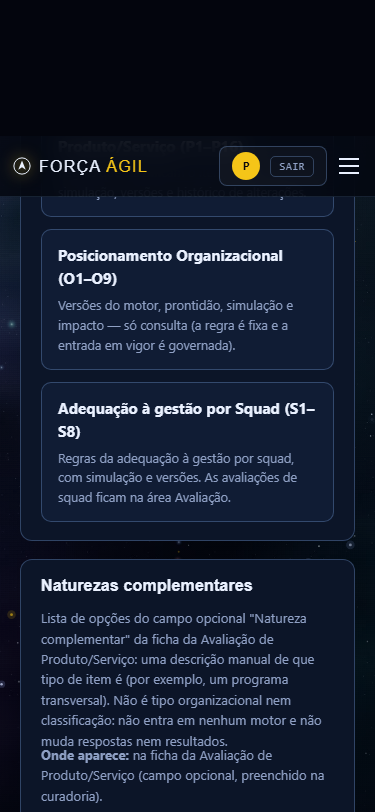
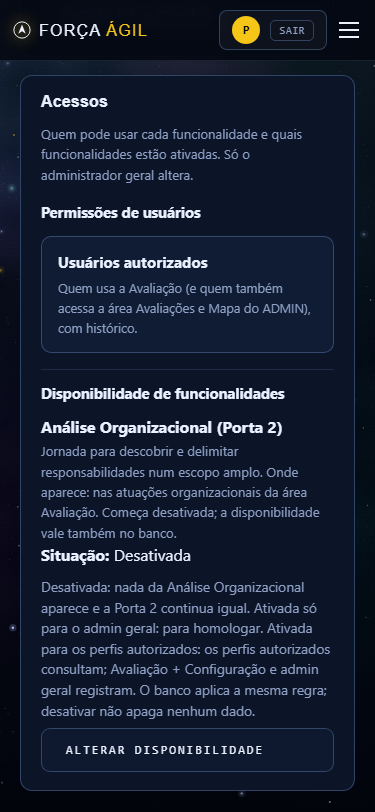
O5 (proposta didática): preserva o exemplo ilustrativo dos roteiros contábeis; captura de Acessos no celular
- ajudas-o1-o9-didatica, O5 quando NÃO: mantém a explicação geral (regras ou parametrizações)
  e traz o exemplo dos roteiros contábeis da proposta de homologação, marcado como ilustrativo:
  participar do desenvolvimento ou da operação não significa, por si só, responder pelo
  resultado próprio. Só ajuda — motor e interpretações intocados; nada é aplicado sozinho.
- teste-orientacao-o1-o9: confere o exemplo e a sobreposição das três propostas aplicadas em
  sequência (versões 1–4 idênticas; textos de homologação e da O9 preservados na versão 5).
- screenshots/acabamento/celular-03-admin-acessos.png refeita, enquadrando a seção Acessos.

diff --git a/.github/scripts/teste-orientacao-o1-o9.js b/.github/scripts/teste-orientacao-o1-o9.js
@@ -152,9 +152,20 @@ async function tela(browser, viewport, rotulo) {
   /* A2 na tela: a proposta didática, aplicada DEPOIS da anterior (cujos textos contam como anteriores conhecidos) */
   const cDid = await texto(page, '#avpCorrecao-' + DID);
   afirma(/Correção editorial disponível/.test(cDid) && /15 ajustes/.test(cDid) && !/divergente/.test(cDid), 'A2. cartão da proposta didática: 15 ajustes pendentes, nada divergente, com a anterior já aplicada', cDid.slice(0, 200));
+  const versoesAntesDid = JSON.stringify([1, 2, 3, 4].map((n) => q.versoes[n]));
   await aplicar(page, DID);
   db = await banco(page);
   q = db['questionarios-config'][QCOD];
+  /* sobreposição: aplicadas em sequência, cada proposta deixa os seus textos e nenhuma versão anterior muda */
+  {
+    const props = Q.listarCorrecoesEditoriais(QCOD), v5 = q.versoes[5].perguntas;
+    const em = (lista, aj) => lerCampo(lista.find((x) => x.codigoEstavel === aj.pergunta), aj.campo);
+    const pAj = props.find((x) => x.id === AJ), pRo = props.find((x) => x.id === RO9), pDid = props.find((x) => x.id === DID);
+    afirma(JSON.stringify([1, 2, 3, 4].map((n) => q.versoes[n])) === versoesAntesDid, 'Sobreposição: as versões 1 a 4 (histórico) continuam idênticas depois da versão 5');
+    afirma(pAj.ajustes.filter((x) => x.pergunta !== 'O5').every((x) => em(v5, x) === x.para), 'Sobreposição: na versão 5, as ajudas de O1, O7, O8 e O9 continuam as da homologação');
+    afirma(pRo.ajustes.every((x) => em(v5, x) === x.para), 'Sobreposição: na versão 5, a pergunta O9 continua a redação aprovada');
+    afirma(pDid.ajustes.every((x) => em(v5, x) === x.para) && pAj.ajustes.filter((x) => x.pergunta === 'O5').every((x) => em(q.versoes[3].perguntas, x) === x.para), 'Sobreposição: O5 da versão 5 = didática; a versão 3 guarda a O5 da homologação');
+  }
   afirma(q.versaoPublicada === 5 && JSON.stringify(diferencas(Q, q.versoes[4].perguntas, q.versoes[5].perguntas)) === JSON.stringify(['O2.textoAjuda.quandoNao', 'O2.textoAjuda.quandoSim', 'O2.textoAjuda.significado', 'O3.textoAjuda.quandoNao', 'O3.textoAjuda.quandoSim', 'O3.textoAjuda.significado', 'O4.textoAjuda.quandoNao', 'O4.textoAjuda.quandoSim', 'O5.ajudaExtra', 'O5.textoAjuda.quandoNao', 'O5.textoAjuda.quandoSim', 'O5.textoAjuda.significado', 'O6.textoAjuda.quandoNao', 'O6.textoAjuda.quandoSim', 'O6.textoAjuda.significado']), 'A2. aplicar a proposta didática cria a versão 5 só com as ajudas de O2–O6', diferencas(Q, q.versoes[4].perguntas, q.versoes[5].perguntas));
   afirma(q.versoes[5].perguntas.every((x) => { const a = q.versoes[4].perguntas.find((y) => y.codigoEstavel === x.codigoEstavel); return a.texto === x.texto && a.justSim === x.justSim && a.justNao === x.justNao; }), 'A2. nenhuma pergunta nem interpretação (SIM/NÃO) mudou');
 
@@ -163,7 +174,7 @@ async function tela(browser, viewport, rotulo) {
   await ateN3(page);
   const aj = async (qq) => texto(page, '.po-pergunta[data-q="' + qq + '"] .avp-ajuda-det');
   afirma(/Responder SIM não cria uma nova Linha/.test(await aj('O1')) && /Atenção — o que não determina a resposta/.test(await aj('O1')), 'C. O1: SIM não cria Linha; o que não determina');
-  afirma(/participa de um Produto\/Serviço com uma atividade própria/.test(await aj('O5')) && /Atender clientes internos não significa, por si só, possuir um Produto\/Serviço dedicado/.test(await aj('O5')) && /Chamar uma atividade de "serviço" também não basta/.test(await aj('O5')) && /disponibilizar uma capacidade é oferecer algo que outros usam/.test(await aj('O5')), 'C. O5: dedicado × compartilhado; cliente interno e "serviço" não bastam; entregar × disponibilizar capacidade');
+  afirma(/participa de um Produto\/Serviço com uma atividade própria/.test(await aj('O5')) && /Atender clientes internos não significa, por si só, possuir um Produto\/Serviço dedicado/.test(await aj('O5')) && /Chamar uma atividade de "serviço" também não basta/.test(await aj('O5')) && /disponibilizar uma capacidade é oferecer algo que outros usam/.test(await aj('O5')) && /Exemplo ilustrativo: definir roteiros contábeis/.test(await aj('O5')), 'C. O5: dedicado × compartilhado; cliente interno e "serviço" não bastam; entregar × disponibilizar capacidade');
   afirma(/resposta técnica especializada/.test(await aj('O2')) && /Quando SIM é defensável\?/.test(await aj('O2')) && /desenvolve, mantém e dissemina/.test(await aj('O3')) && /Quando NÃO é defensável\?/.test(await aj('O3')), 'C. O2 e O3: Ajuda completa no padrão (antes, só uma frase)');
   for (const qq of ['O1', 'O2', 'O3', 'O4', 'O5']) {
     const ex = await page.evaluate((x) => { const d = document.getElementById('poExemplos_' + x); return d ? { aberto: d.open, t: d.textContent } : null; }, qq);
@@ -205,6 +216,8 @@ async function tela(browser, viewport, rotulo) {
   afirma(did.ajustes.every((x) => ['O2', 'O3', 'O4', 'O5', 'O6'].includes(x.pergunta) && /^(textoAjuda\.(significado|quandoSim|quandoNao)|ajudaExtra)$/.test(x.campo)), 'A2. só textoAjuda.* e ajudaExtra de O2, O3, O4, O5 e O6');
   afirma(did.ajustes.every((x) => (x.de === null ? lerCampo(fab(x.pergunta), x.campo) == null : lerCampo(fab(x.pergunta), x.campo) === x.de)), 'A2. todo "de" é o texto de fábrica; os campos criados não existem de fábrica');
   afirma(did.ajustes.every((x) => !/GECON|PREVI|autosservi/i.test(x.para || '')), 'A2. nenhum texto cita a área homologada nem fala de autosserviço');
+  const naoO5 = did.ajustes.find((x) => x.pergunta === 'O5' && x.campo === 'textoAjuda.quandoNao').para;
+  afirma(/definir regras ou parametrizações/.test(naoO5) && /Exemplo ilustrativo: definir roteiros contábeis e parametrizações para um produto novo/.test(naoO5) && /não significa, por si só, ser responsável pelo resultado próprio/.test(naoO5), 'A2. O5 (quando NÃO): a explicação geral e o exemplo dos roteiros contábeis da homologação, marcado como ilustrativo');
   const extraO5 = did.ajustes.find((x) => x.pergunta === 'O5' && x.campo === 'ajudaExtra').para;
   afirma(/Atender clientes internos não significa, por si só, possuir um Produto\/Serviço dedicado/.test(extraO5) && /Chamar uma atividade de "serviço" também não basta/.test(extraO5), 'A2. O5: cliente interno e o nome "serviço", sozinhos, não bastam');
   const browser = await chromium.launch();

diff --git a/forca-agil/questionarios-config.js b/forca-agil/questionarios-config.js
@@ -759,7 +759,9 @@
         { pergunta: 'O5', campo: 'textoAjuda.quandoSim', de: null,
           para: 'A estrutura responde pela entrega e pela evolução do Produto/Serviço: decide as prioridades dele, acompanha o resultado dele para o público que o recebe e responde quando ele não entrega. O público pode ser externo ou interno.' },
         { pergunta: 'O5', campo: 'textoAjuda.quandoNao', de: null,
-          para: 'A estrutura oferece a mesma capacidade, serviço ou atividade a vários Produtos/Serviços e Linhas, ou participa de um Produto/Serviço com uma atividade própria (por exemplo, definir regras ou parametrizações), sem responder pelo resultado dele.' },
+          para: 'A estrutura oferece a mesma capacidade, serviço ou atividade a vários Produtos/Serviços e Linhas, ou participa de um Produto/Serviço com uma atividade própria (por exemplo, definir regras ou parametrizações), sem responder pelo resultado dele. ' +
+            'Exemplo ilustrativo: definir roteiros contábeis e parametrizações para um produto novo é participar do desenvolvimento dele, não responder pela entrega e evolução desse produto. ' +
+            'Participar do desenvolvimento ou da operação de um Produto/Serviço não significa, por si só, ser responsável pelo resultado próprio dele.' },
         { pergunta: 'O5', campo: 'ajudaExtra',
           de: 'Uma função ou canal exclusivo de determinada solução pode responder SIM. Atender cliente externo, isoladamente, não basta.\n' +
             'Utilizar plataformas compartilhadas também não transforma uma Linha de Negócios em Plataforma.',
